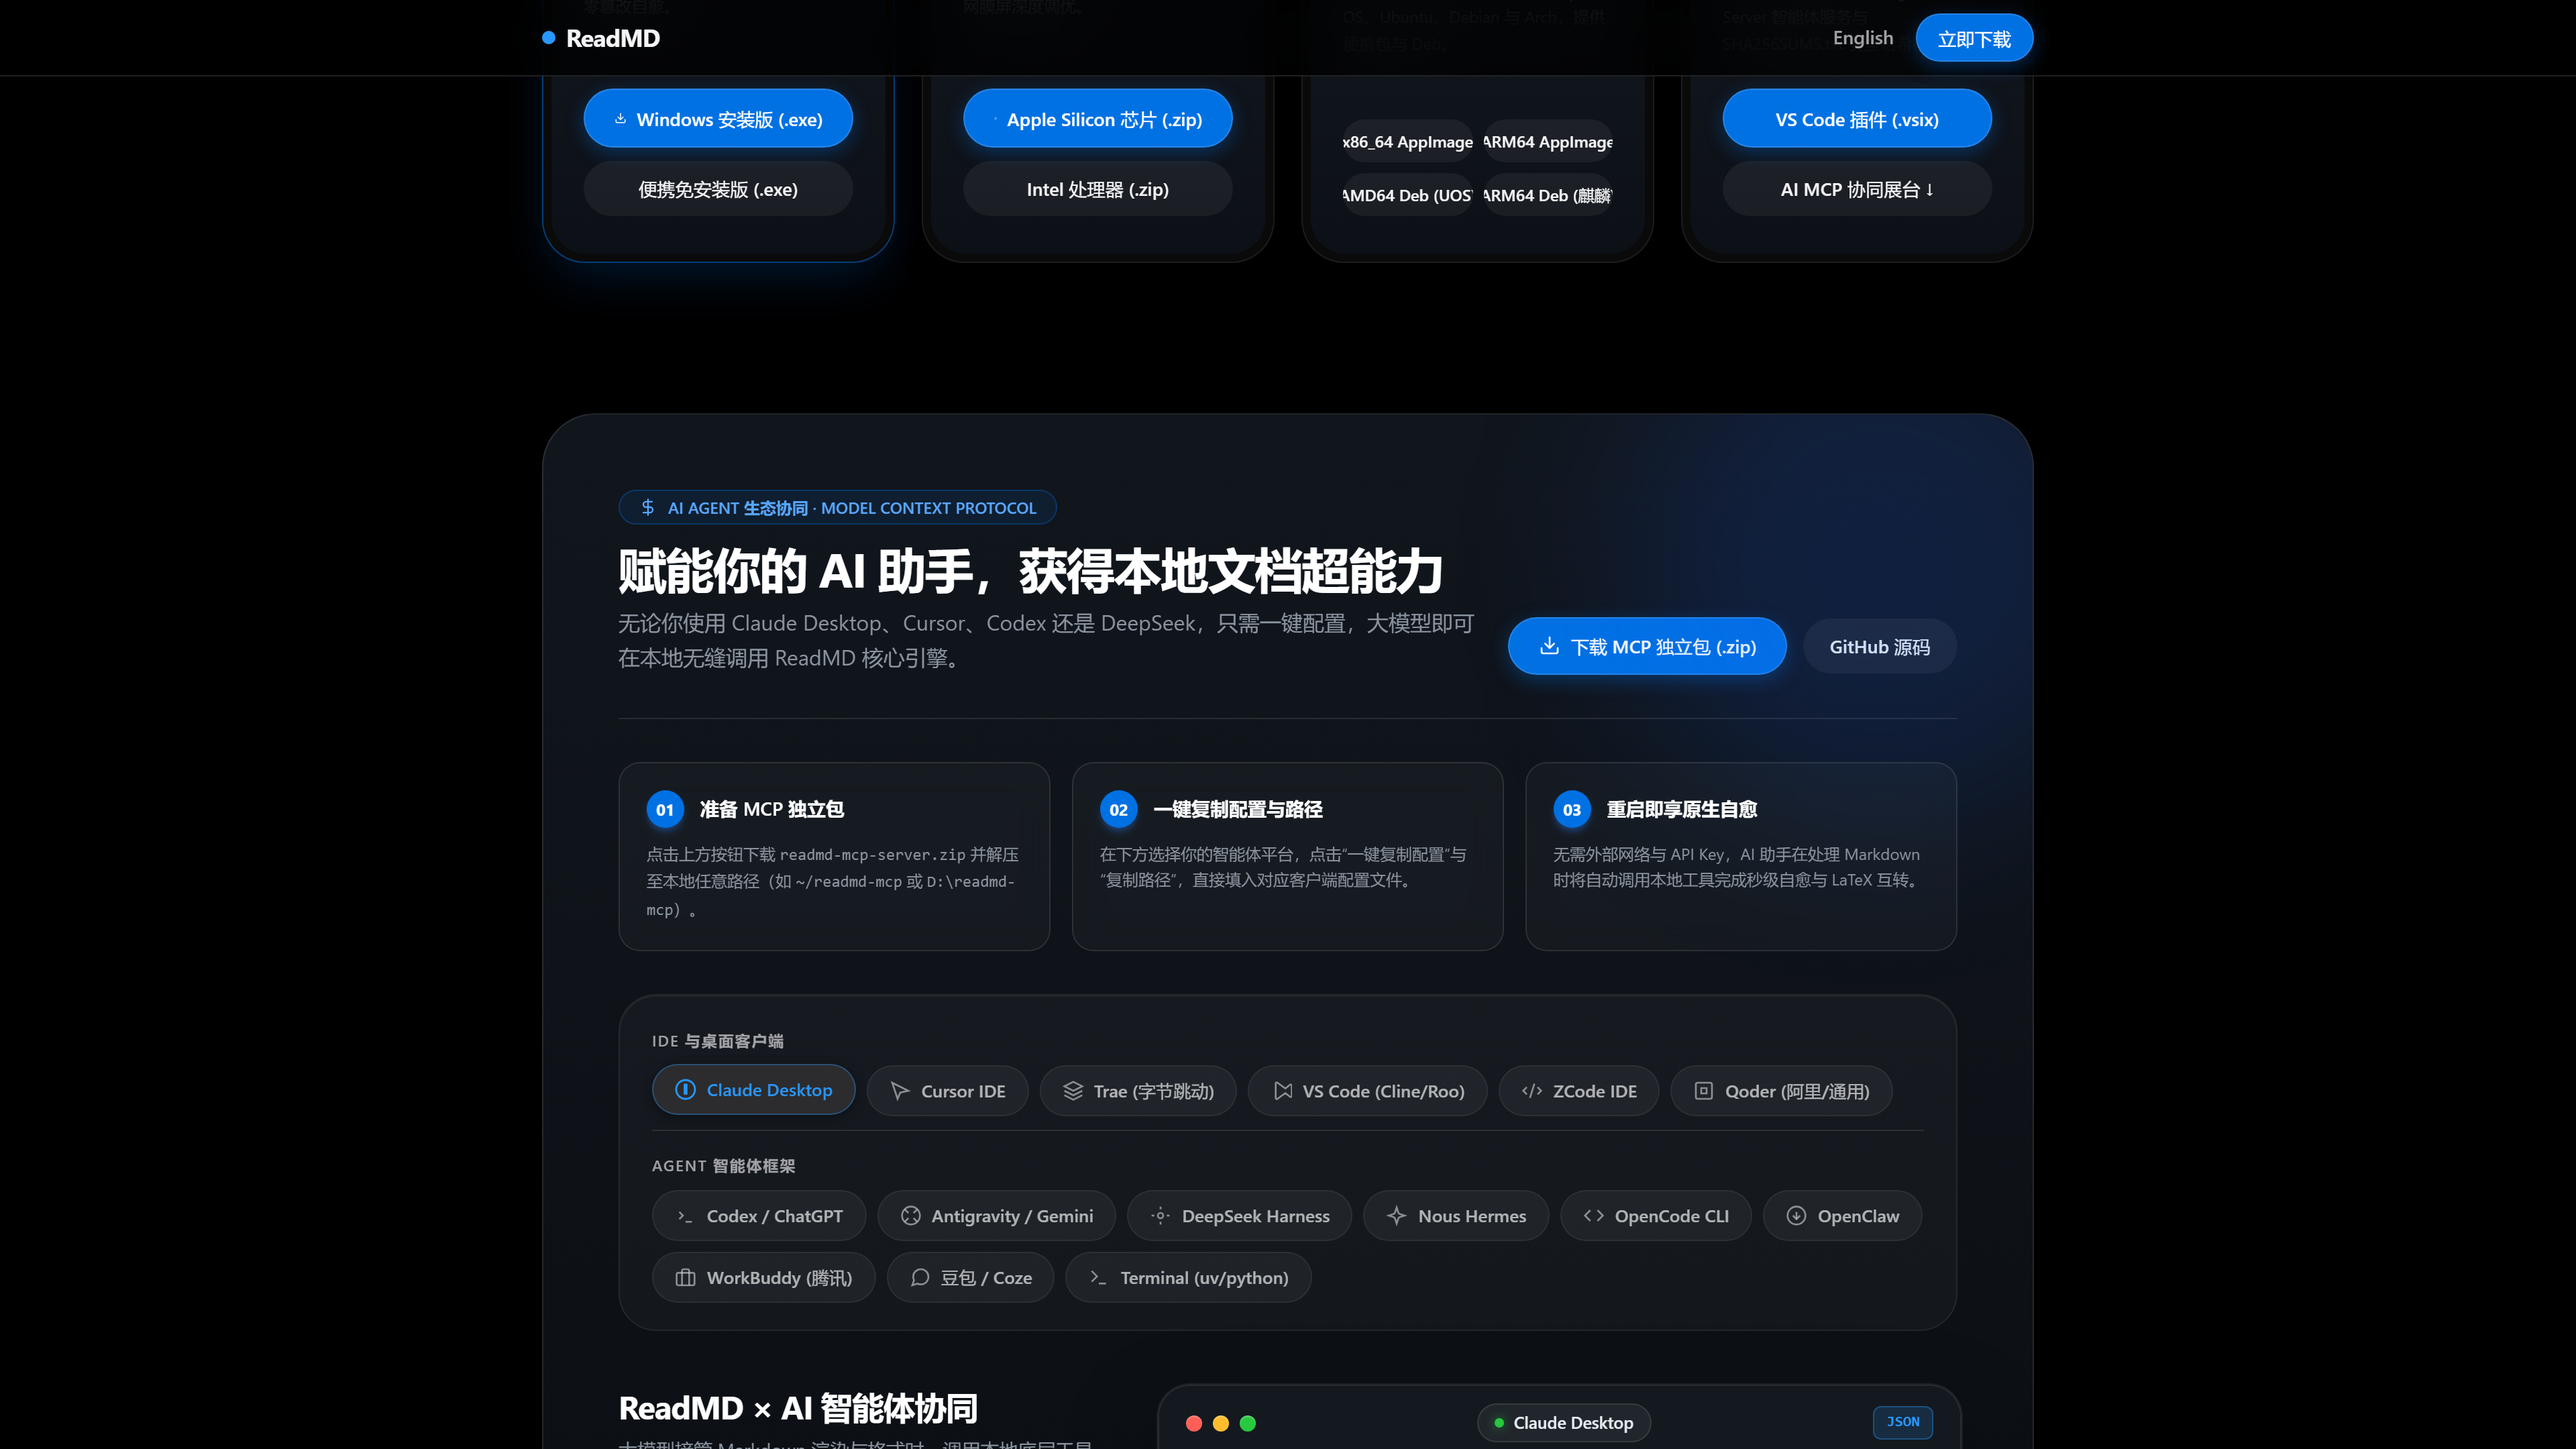
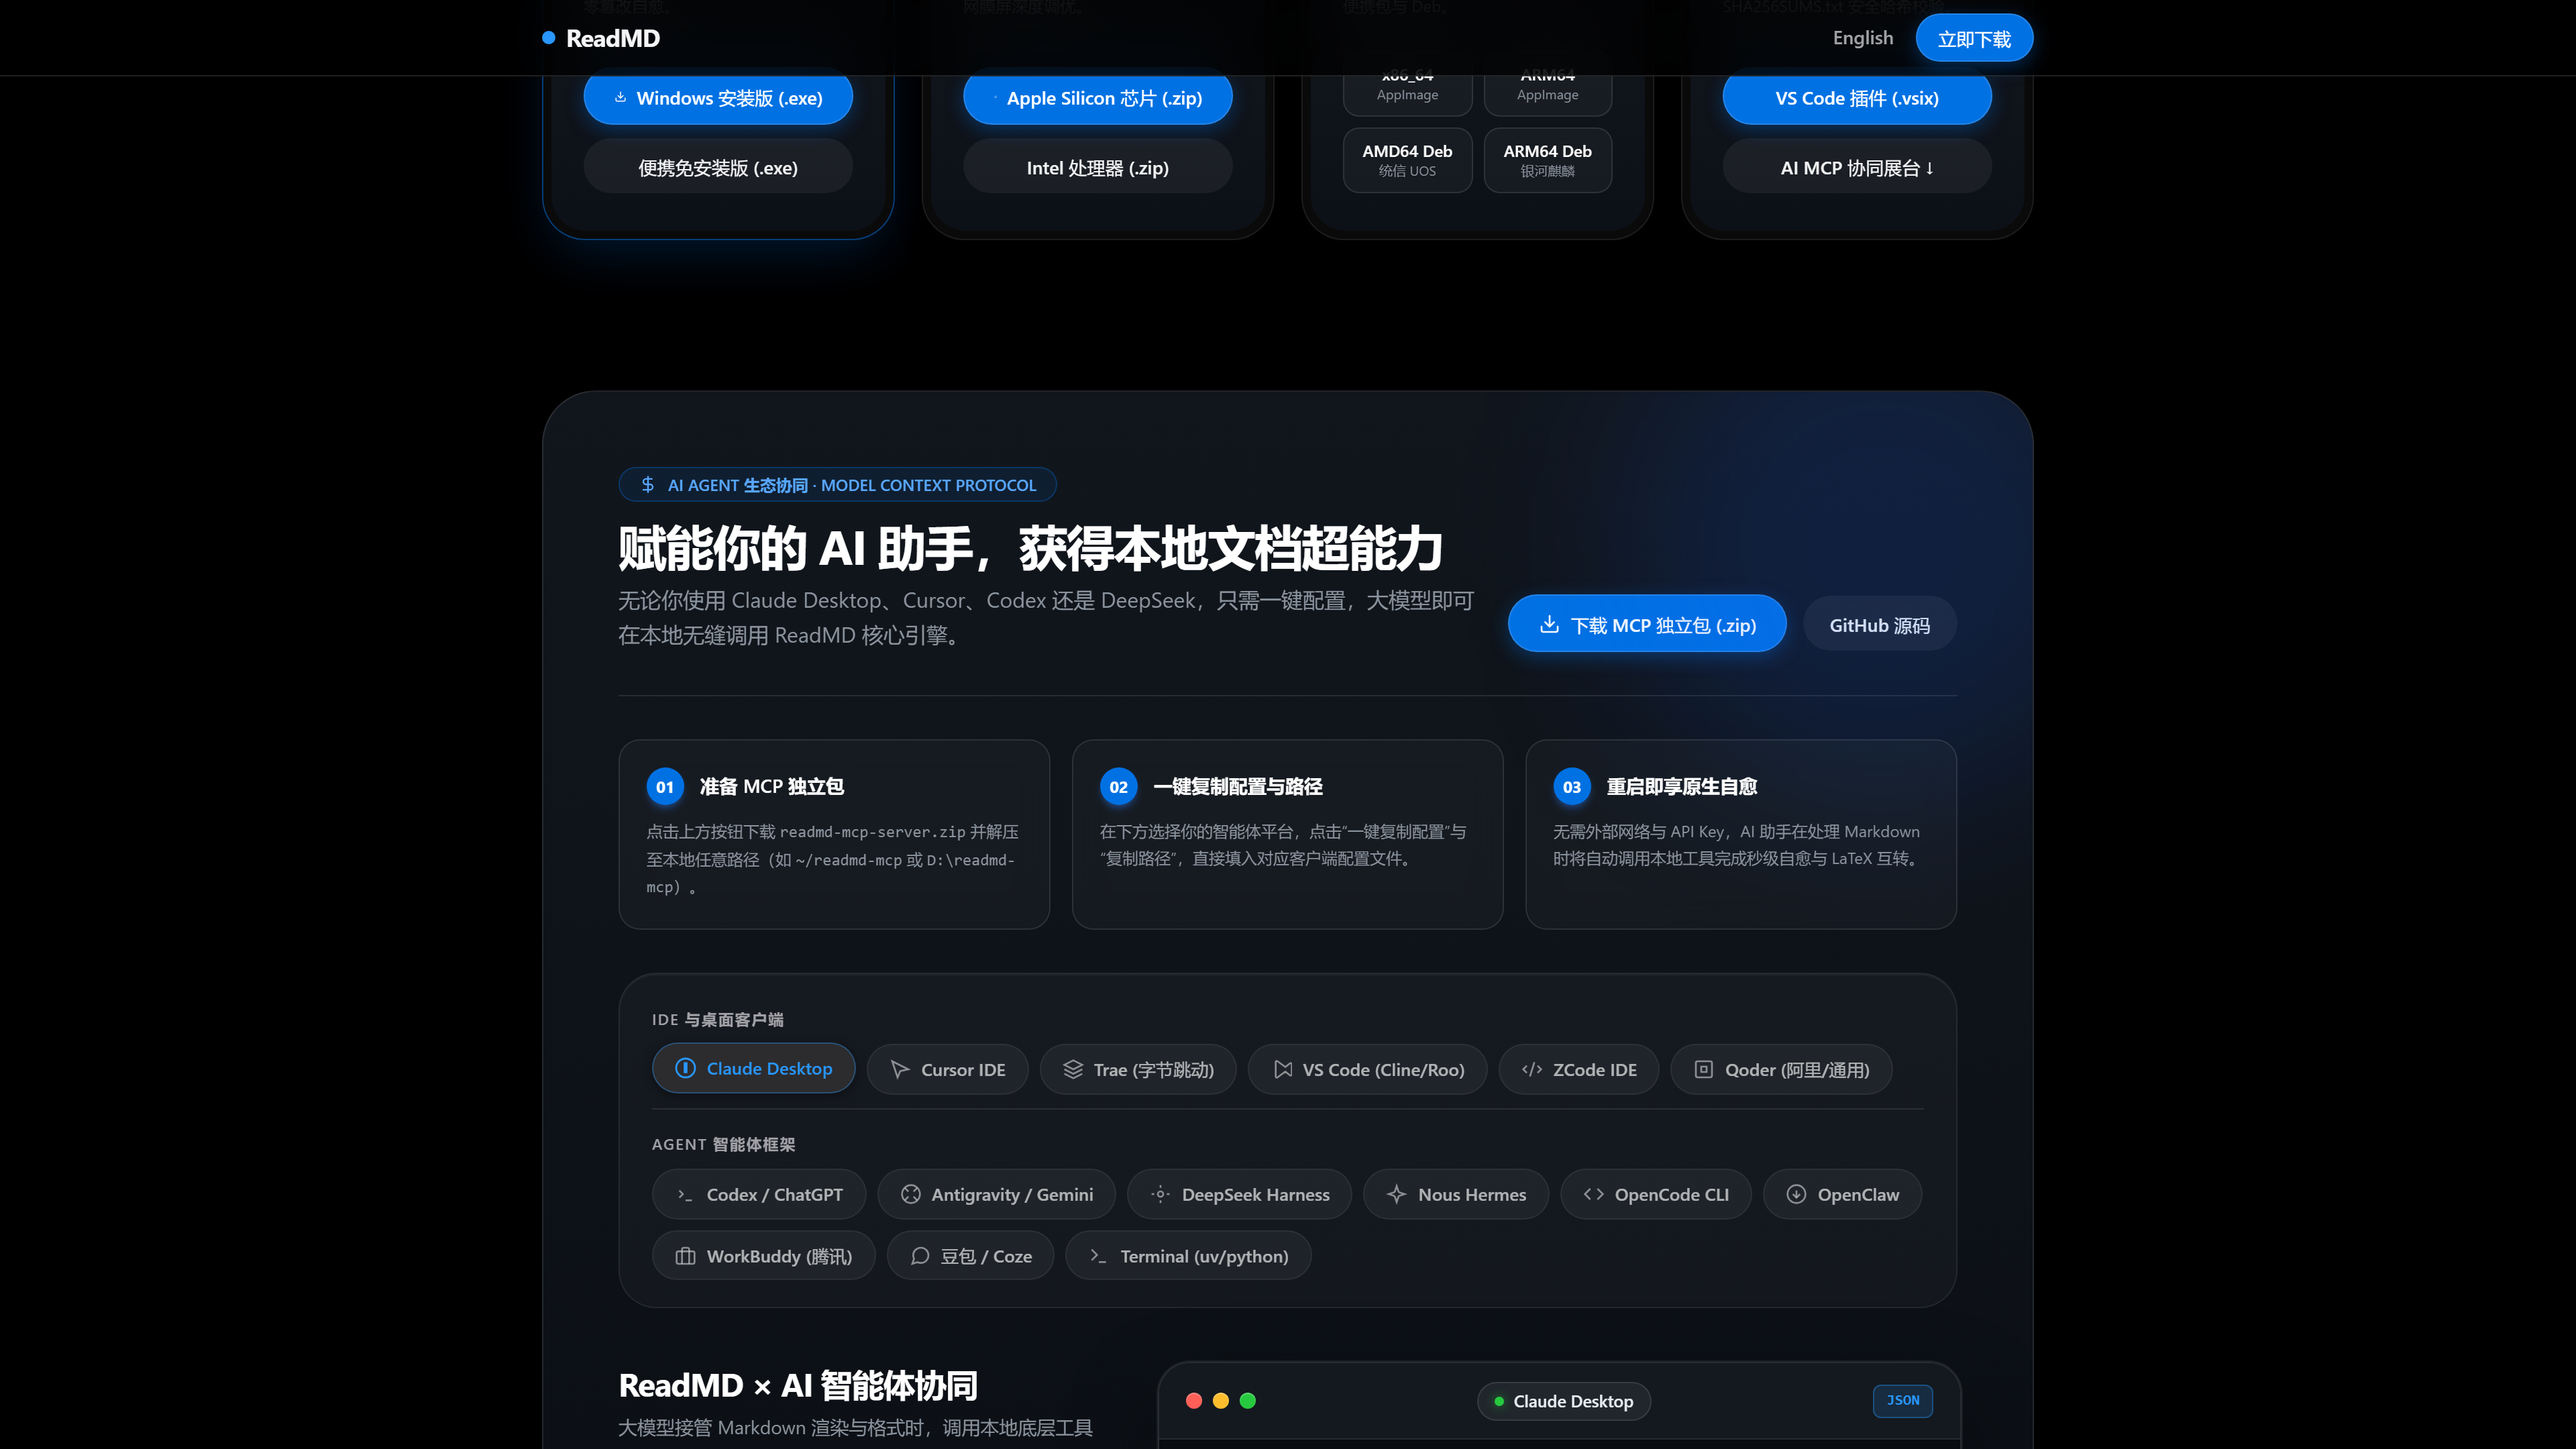
test(showcase): refresh responsive audit captures

diff --git a/website/public/zh-tw/download/index.html b/website/public/zh-tw/download/index.html
@@ -227,50 +227,56 @@
         </div>
       </article>
 
+      <!-- Linux & 信創系統 Card -->
       <article class="apple-platform-card" data-platform="linux">
         <div class="apple-platform-inner">
           <div>
             <div class="flex items-center justify-between">
               <div class="flex items-center gap-2.5">
                 <svg class="w-7 h-7 text-[#f34f29]" viewBox="0 0 24 24" fill="none" stroke="currentColor" stroke-width="2" stroke-linecap="round" stroke-linejoin="round"><rect x="2" y="2" width="20" height="8" rx="2" ry="2"/><rect x="2" y="14" width="20" height="8" rx="2" ry="2"/><line x1="6" y1="6" x2="6.01" y2="6"/><line x1="6" y1="18" x2="6.01" y2="18"/></svg>
-                <h2 class="text-xl font-bold tracking-tight text-white">Linux</h2>
+                <h2 class="text-lg md:text-xl font-bold tracking-tight text-white whitespace-nowrap">Linux / 信創</h2>
               </div>
-              <span class="rounded-full bg-white/10 border border-white/20 px-2.5 py-0.5 text-[11px] font-semibold text-white/80">UOS / 麒麟</span>
+              <span class="rounded-full bg-white/10 border border-white/20 px-2 py-0.5 text-[10px] font-semibold text-white/80 shrink-0">UOS / 麒麟</span>
             </div>
             <p class="mt-3 text-xs text-[#8b949e] leading-relaxed">
-              原生支援統信 UOS、銀河麒麟 Kylin OS、Ubuntu、Debian 與 Arch，提供 AppImage 與 Deb。
+              原生支援統信 UOS、銀河麒麟 Kylin OS、Ubuntu、Debian 與 Arch，提供便攜包與 Deb。
             </p>
           </div>
           <div class="flex flex-col gap-2">
             <div class="grid grid-cols-2 gap-2">
-              <a class="apple-pill-secondary !py-2 !px-2 !text-xs !justify-center text-center truncate" href="https://github.com/Natsummerance/readMD/releases/download/v2.3.7/ReadMD-linux-x86_64-v2.3.7.AppImage">
-                x86_64 AppImage
+              <a class="flex flex-col items-center justify-center rounded-xl bg-white/[0.04] border border-white/10 hover:border-white/20 hover:bg-white/[0.08] py-2 px-1 transition-all text-center" href="https://github.com/Natsummerance/readMD/releases/download/v2.3.7/ReadMD-linux-x86_64-v2.3.7.AppImage">
+                <span class="font-semibold text-xs text-white">x86_64</span>
+                <span class="text-[10px] text-[#8b949e]">AppImage</span>
               </a>
-              <a class="apple-pill-secondary !py-2 !px-2 !text-xs !justify-center text-center truncate" href="https://github.com/Natsummerance/readMD/releases/download/v2.3.7/ReadMD-linux-aarch64-v2.3.7.AppImage">
-                ARM64 AppImage
+              <a class="flex flex-col items-center justify-center rounded-xl bg-white/[0.04] border border-white/10 hover:border-white/20 hover:bg-white/[0.08] py-2 px-1 transition-all text-center" href="https://github.com/Natsummerance/readMD/releases/download/v2.3.7/ReadMD-linux-aarch64-v2.3.7.AppImage">
+                <span class="font-semibold text-xs text-white">ARM64</span>
+                <span class="text-[10px] text-[#8b949e]">AppImage</span>
               </a>
             </div>
             <div class="grid grid-cols-2 gap-2">
-              <a class="apple-pill-secondary !py-2 !px-2 !text-xs !justify-center text-center truncate" href="https://github.com/Natsummerance/readMD/releases/download/v2.3.7/readmd_2.3.7_amd64.deb">
-                AMD64 Deb (UOS)
+              <a class="flex flex-col items-center justify-center rounded-xl bg-white/[0.04] border border-white/10 hover:border-white/20 hover:bg-white/[0.08] py-2 px-1 transition-all text-center" href="https://github.com/Natsummerance/readMD/releases/download/v2.3.7/readmd_2.3.7_amd64.deb">
+                <span class="font-semibold text-xs text-white">AMD64 Deb</span>
+                <span class="text-[10px] text-[#8b949e]">統信 UOS</span>
               </a>
-              <a class="apple-pill-secondary !py-2 !px-2 !text-xs !justify-center text-center truncate" href="https://github.com/Natsummerance/readMD/releases/download/v2.3.7/readmd_2.3.7_arm64.deb">
-                ARM64 Deb (麒麟)
+              <a class="flex flex-col items-center justify-center rounded-xl bg-white/[0.04] border border-white/10 hover:border-white/20 hover:bg-white/[0.08] py-2 px-1 transition-all text-center" href="https://github.com/Natsummerance/readMD/releases/download/v2.3.7/readmd_2.3.7_arm64.deb">
+                <span class="font-semibold text-xs text-white">ARM64 Deb</span>
+                <span class="text-[10px] text-[#8b949e]">銀河麒麟</span>
               </a>
             </div>
           </div>
         </div>
       </article>
 
+      <!-- Extensions & MCP Suite Card -->
       <article class="apple-platform-card">
         <div class="apple-platform-inner">
           <div>
             <div class="flex items-center justify-between">
               <div class="flex items-center gap-2.5">
                 <svg class="w-7 h-7 text-[#007acc]" viewBox="0 0 24 24" fill="none" stroke="currentColor" stroke-width="2" stroke-linecap="round" stroke-linejoin="round"><path d="M16.5 9.4 7.55 2.81a1.2 1.2 0 0 0-1.78.85v16.68a1.2 1.2 0 0 0 1.78.85L16.5 14.6l5.3 4.14a1.2 1.2 0 0 0 1.9-.94V6.2a1.2 1.2 0 0 0-1.9-.94z"/></svg>
-                <h2 class="text-xl font-bold tracking-tight text-white">擴充與協同</h2>
+                <h2 class="text-lg md:text-xl font-bold tracking-tight text-white whitespace-nowrap">擴充與生態</h2>
               </div>
-              <span class="rounded-full bg-[#0071e3]/20 border border-[#0071e3]/40 px-2.5 py-0.5 text-[11px] font-semibold text-[#58a6ff]">MCP 原生</span>
+              <span class="rounded-full bg-[#0071e3]/20 border border-[#0071e3]/40 px-2 py-0.5 text-[10px] font-semibold text-[#58a6ff] shrink-0">MCP 原生</span>
             </div>
             <p class="mt-3 text-xs text-[#8b949e] leading-relaxed">
               VS Code 原生外掛、AI Agent MCP Server 智慧體服務與 SHA256SUMS.txt 安全雜湊校驗。

diff --git a/website/public/ja/download/index.html b/website/public/ja/download/index.html
@@ -240,9 +240,9 @@
             <div class="flex items-center justify-between">
               <div class="flex items-center gap-2.5">
                 <svg class="w-7 h-7 text-[#f34f29]" viewBox="0 0 24 24" fill="none" stroke="currentColor" stroke-width="2" stroke-linecap="round" stroke-linejoin="round"><rect x="2" y="2" width="20" height="8" rx="2" ry="2"/><rect x="2" y="14" width="20" height="8" rx="2" ry="2"/><line x1="6" y1="6" x2="6.01" y2="6"/><line x1="6" y1="18" x2="6.01" y2="18"/></svg>
-                <h2 class="text-xl font-bold tracking-tight text-white">Linux</h2>
+                <h2 class="text-lg md:text-xl font-bold tracking-tight text-white whitespace-nowrap">Linux</h2>
               </div>
-              <span class="rounded-full bg-white/10 border border-white/20 px-2.5 py-0.5 text-[11px] font-semibold text-white/80">AppImage / Deb</span>
+              <span class="rounded-full bg-white/10 border border-white/20 px-2 py-0.5 text-[10px] font-semibold text-white/80 shrink-0">AppImage / Deb</span>
             </div>
             <p class="mt-3 text-xs text-[#8b949e] leading-relaxed">
               Ubuntu、Debian、Fedora、Arch、Kylin OS、UOS に幅広く対応。AppImage と Deb を提供。
@@ -250,19 +250,23 @@
           </div>
           <div class="flex flex-col gap-2">
             <div class="grid grid-cols-2 gap-2">
-              <a class="apple-pill-secondary !py-2 !px-2 !text-xs !justify-center text-center truncate" href="https://github.com/Natsummerance/readMD/releases/download/v2.3.7/ReadMD-linux-x86_64-v2.3.7.AppImage">
-                x86_64 AppImage
+              <a class="flex flex-col items-center justify-center rounded-xl bg-white/[0.04] border border-white/10 hover:border-white/20 hover:bg-white/[0.08] py-2 px-1 transition-all text-center" href="https://github.com/Natsummerance/readMD/releases/download/v2.3.7/ReadMD-linux-x86_64-v2.3.7.AppImage">
+                <span class="font-semibold text-xs text-white">x86_64</span>
+                <span class="text-[10px] text-[#8b949e]">AppImage</span>
               </a>
-              <a class="apple-pill-secondary !py-2 !px-2 !text-xs !justify-center text-center truncate" href="https://github.com/Natsummerance/readMD/releases/download/v2.3.7/ReadMD-linux-aarch64-v2.3.7.AppImage">
-                ARM64 AppImage
+              <a class="flex flex-col items-center justify-center rounded-xl bg-white/[0.04] border border-white/10 hover:border-white/20 hover:bg-white/[0.08] py-2 px-1 transition-all text-center" href="https://github.com/Natsummerance/readMD/releases/download/v2.3.7/ReadMD-linux-aarch64-v2.3.7.AppImage">
+                <span class="font-semibold text-xs text-white">ARM64</span>
+                <span class="text-[10px] text-[#8b949e]">AppImage</span>
               </a>
             </div>
             <div class="grid grid-cols-2 gap-2">
-              <a class="apple-pill-secondary !py-2 !px-2 !text-xs !justify-center text-center truncate" href="https://github.com/Natsummerance/readMD/releases/download/v2.3.7/readmd_2.3.7_amd64.deb">
-                AMD64 Deb
+              <a class="flex flex-col items-center justify-center rounded-xl bg-white/[0.04] border border-white/10 hover:border-white/20 hover:bg-white/[0.08] py-2 px-1 transition-all text-center" href="https://github.com/Natsummerance/readMD/releases/download/v2.3.7/readmd_2.3.7_amd64.deb">
+                <span class="font-semibold text-xs text-white">AMD64 Deb</span>
+                <span class="text-[10px] text-[#8b949e]">Ubuntu / Debian</span>
               </a>
-              <a class="apple-pill-secondary !py-2 !px-2 !text-xs !justify-center text-center truncate" href="https://github.com/Natsummerance/readMD/releases/download/v2.3.7/readmd_2.3.7_arm64.deb">
-                ARM64 Deb
+              <a class="flex flex-col items-center justify-center rounded-xl bg-white/[0.04] border border-white/10 hover:border-white/20 hover:bg-white/[0.08] py-2 px-1 transition-all text-center" href="https://github.com/Natsummerance/readMD/releases/download/v2.3.7/readmd_2.3.7_arm64.deb">
+                <span class="font-semibold text-xs text-white">ARM64 Deb</span>
+                <span class="text-[10px] text-[#8b949e]">Kylin / UOS</span>
               </a>
             </div>
           </div>
@@ -276,9 +280,9 @@
             <div class="flex items-center justify-between">
               <div class="flex items-center gap-2.5">
                 <svg class="w-7 h-7 text-[#007acc]" viewBox="0 0 24 24" fill="none" stroke="currentColor" stroke-width="2" stroke-linecap="round" stroke-linejoin="round"><path d="M16.5 9.4 7.55 2.81a1.2 1.2 0 0 0-1.78.85v16.68a1.2 1.2 0 0 0 1.78.85L16.5 14.6l5.3 4.14a1.2 1.2 0 0 0 1.9-.94V6.2a1.2 1.2 0 0 0-1.9-.94z"/></svg>
-                <h2 class="text-xl font-bold tracking-tight text-white">拡張機能</h2>
+                <h2 class="text-lg md:text-xl font-bold tracking-tight text-white whitespace-nowrap">拡張機能</h2>
               </div>
-              <span class="rounded-full bg-[#0071e3]/20 border border-[#0071e3]/40 px-2.5 py-0.5 text-[11px] font-semibold text-[#58a6ff]">MCP ネイティブ</span>
+              <span class="rounded-full bg-[#0071e3]/20 border border-[#0071e3]/40 px-2 py-0.5 text-[10px] font-semibold text-[#58a6ff] shrink-0">MCP ネイティブ</span>
             </div>
             <p class="mt-3 text-xs text-[#8b949e] leading-relaxed">
               VS Code 拡張機能、スタンドアロン AI 連携 MCP Server、SHA256SUMS.txt 安全検証。
